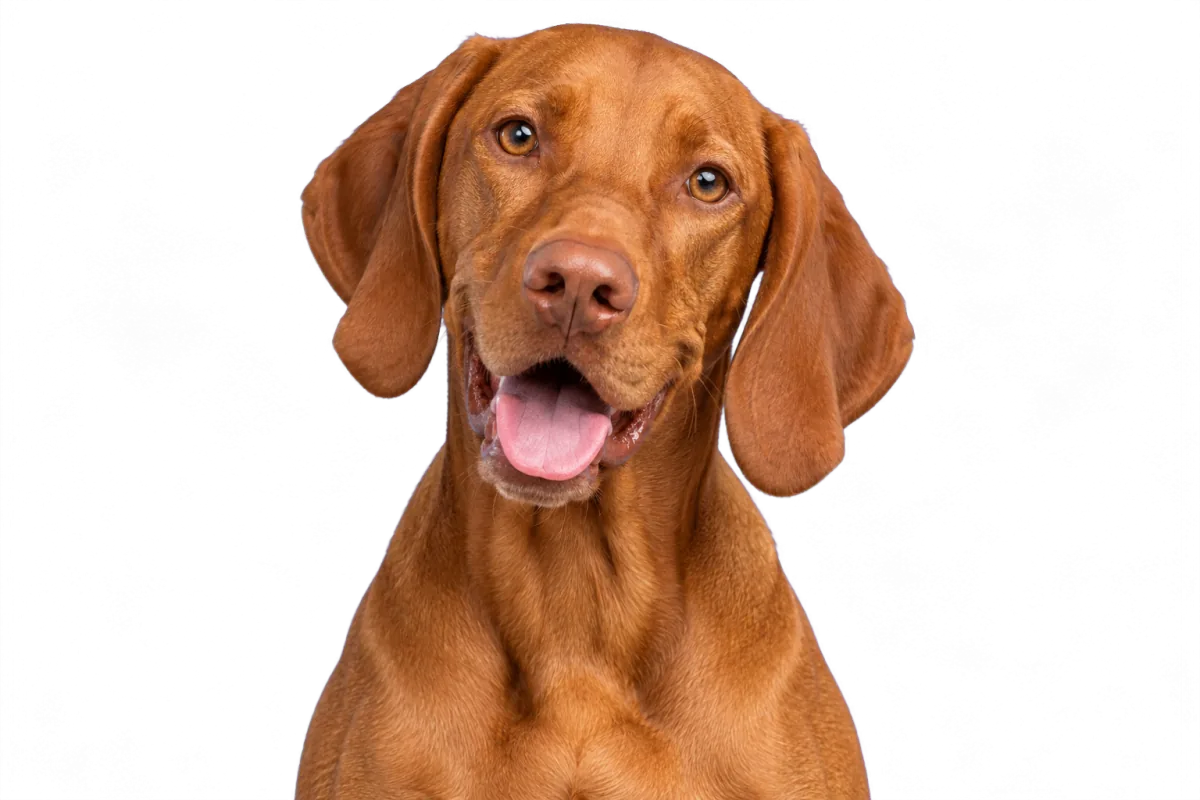
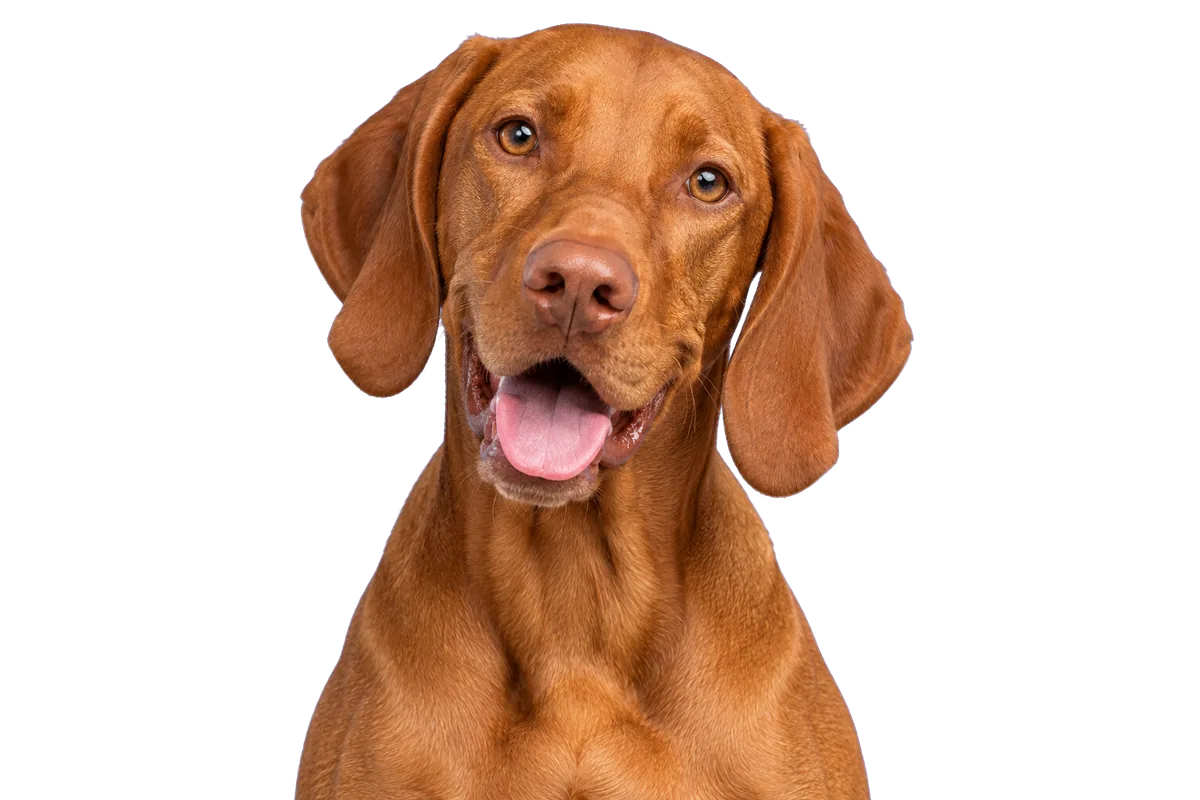
Hero: wordmark clears the header mark; cleaner cut-out photos
# SCOPE: full — index.html, img/hero-*.webp

diff --git a/index.html b/index.html
@@ -128,7 +128,7 @@ ul { list-style: none; }
 }
 .hero { position: relative; height: 100vh; height: 100svh; min-height: 560px; padding: var(--inset) var(--inset) 0; }
 .hero-card { position: relative; height: 100%; overflow: hidden; border-radius: var(--r-hero); background: var(--hero); transform-origin: 50% 50%; will-change: transform; container-type: inline-size; }
-.hero-word { position: absolute; z-index: 1; left: 0; right: 0; top: 88px; color: #fff; text-align: center; font: 800 calc(100cqw * .89 / 5.1)/.78 var(--display); letter-spacing: -.01em; white-space: nowrap; transform-origin: 50% 0; pointer-events: none; user-select: none; }
+.hero-word { position: absolute; z-index: 1; left: 0; right: 0; top: 110px; color: #fff; text-align: center; font: 800 calc(100cqw * .89 / 5.1)/.78 var(--display); letter-spacing: -.01em; white-space: nowrap; transform-origin: 50% 0; pointer-events: none; user-select: none; }
 .hero-word span { display: inline-block; }
 /* The hero photos are 3:2 with the animal centred; the card clips the empty sides. */
 .hero-media { position: absolute; z-index: 2; left: 50%; bottom: 0; height: 76%; aspect-ratio: 3 / 2; transform: translateX(-50%); transition: opacity .4s ease, transform .4s ease; }
